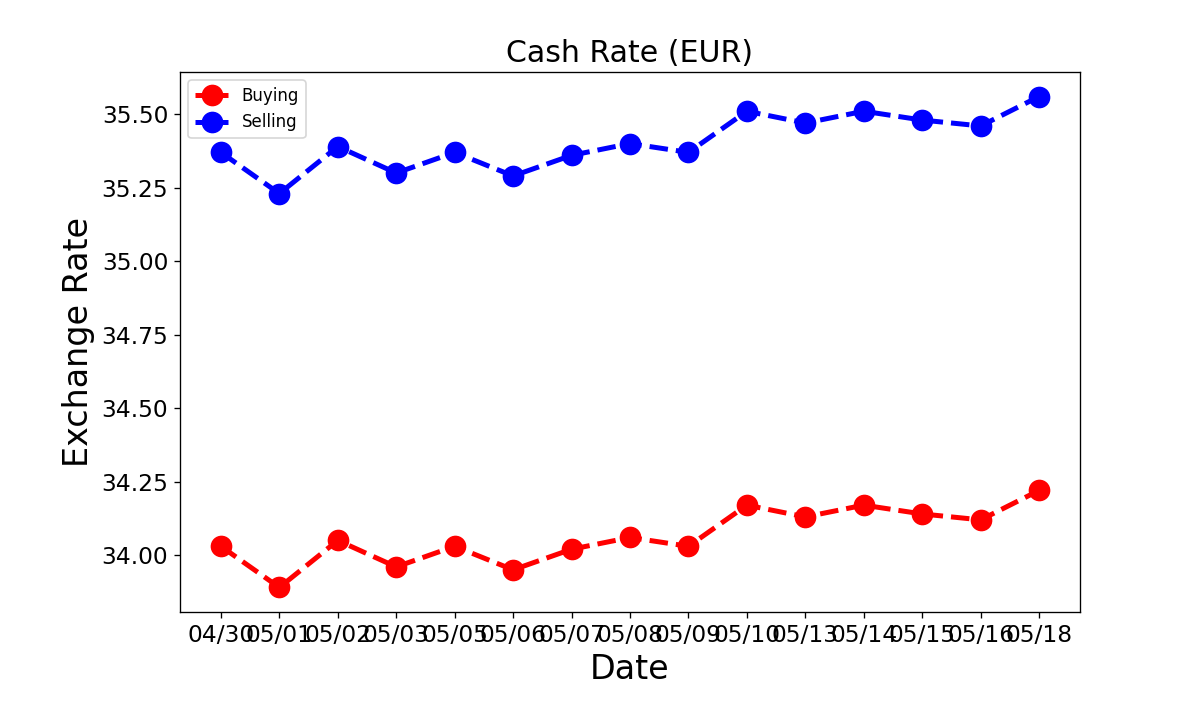
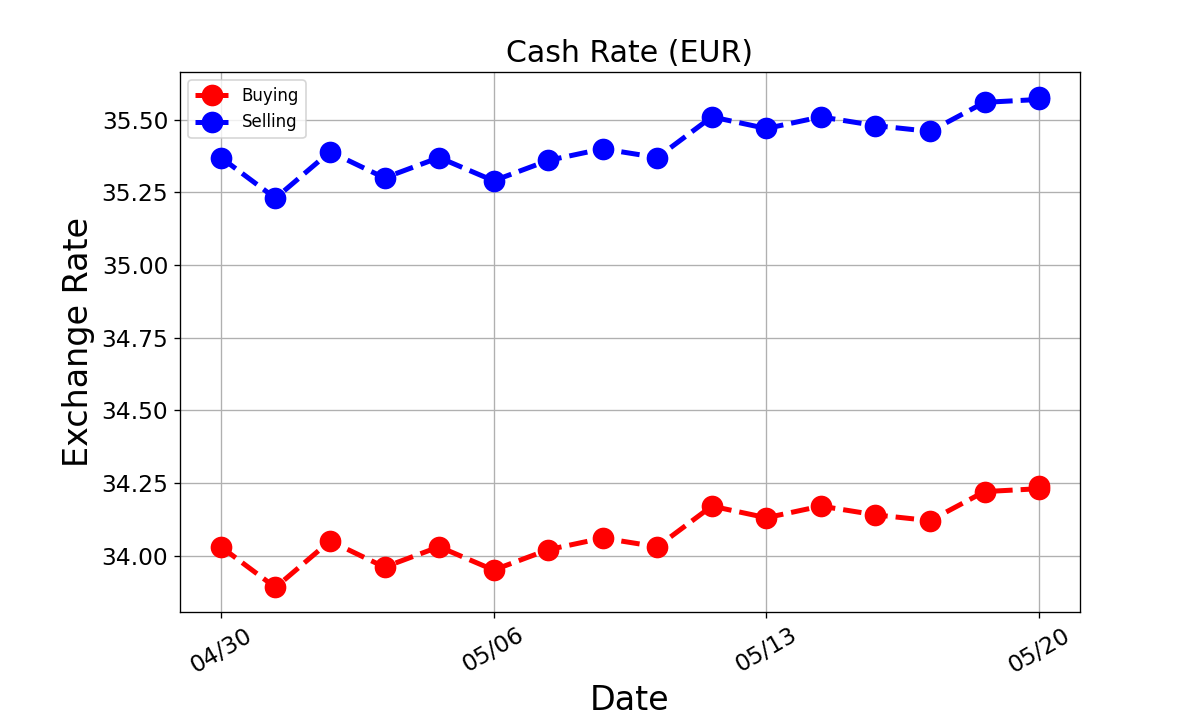
update plot x label

diff --git a/RequestData/exchange_rate.py b/RequestData/exchange_rate.py
@@ -74,10 +74,11 @@ fig1  = plt.figure(figsize=(10,6), dpi=120)
 plt.axes([0.15, 0.15, 0.75, 0.75]) #axes( [x, y, width, height] ): x,y為和左下角的相對位置
 plt.plot(x1, y_USDbuy, color = 'red', label='Buying', marker='o', markersize=12, linestyle = '--', linewidth=3)
 plt.plot(x1, y_USDsell, color = 'blue', label='Selling', marker='o', markersize=12, linestyle = '--', linewidth=3)
-
+stride = 5
 plt.legend(loc = 'best')
-plt.xticks(fontsize=14, rotation=0)
+plt.xticks(ticks=x1[::stride], labels=x1[::stride], fontsize=14, rotation=30)
 plt.yticks(fontsize=14, rotation=0)
+plt.grid(True)
 plt.xlabel('Date', size=20) 
 plt.ylabel('Exchange Rate', size=20) 
 plt.title('Cash Rate (USD)', size=18) 
@@ -88,10 +89,11 @@ fig2  = plt.figure(figsize=(10,6), dpi=120)
 plt.axes([0.15, 0.15, 0.75, 0.75]) #axes( [x, y, width, height] ): x,y為和左下角的相對位置
 plt.plot(x1, y_JPYbuy, color = 'red', label='Buying', marker='o', markersize=12, linestyle = '--', linewidth=3)
 plt.plot(x1, y_JPYsell, color = 'blue', label='Selling', marker='o', markersize=12, linestyle = '--', linewidth=3)
-
+stride = 5
 plt.legend(loc = 'best')
-plt.xticks(fontsize=14, rotation=0)
+plt.xticks(ticks=x1[::stride], labels=x1[::stride], fontsize=14, rotation=30)
 plt.yticks(fontsize=14, rotation=0)
+plt.grid(True)
 plt.xlabel('Date', size=20) 
 plt.ylabel('Exchange Rate', size=20) 
 plt.title('Cash Rate (JPY)', size=18) 
@@ -102,10 +104,11 @@ fig3  = plt.figure(figsize=(10,6), dpi=120)
 plt.axes([0.15, 0.15, 0.75, 0.75]) #axes( [x, y, width, height] ): x,y為和左下角的相對位置
 plt.plot(x1, y_EURbuy, color = 'red', label='Buying', marker='o', markersize=12, linestyle = '--', linewidth=3)
 plt.plot(x1, y_EURsell, color = 'blue', label='Selling', marker='o', markersize=12, linestyle = '--', linewidth=3)
-
+stride = 5
 plt.legend(loc = 'best')
-plt.xticks(fontsize=14, rotation=0)
+plt.xticks(ticks=x1[::stride], labels=x1[::stride], fontsize=14, rotation=30)
 plt.yticks(fontsize=14, rotation=0)
+plt.grid(True)
 plt.xlabel('Date', size=20) 
 plt.ylabel('Exchange Rate', size=20) 
 plt.title('Cash Rate (EUR)', size=18) 
